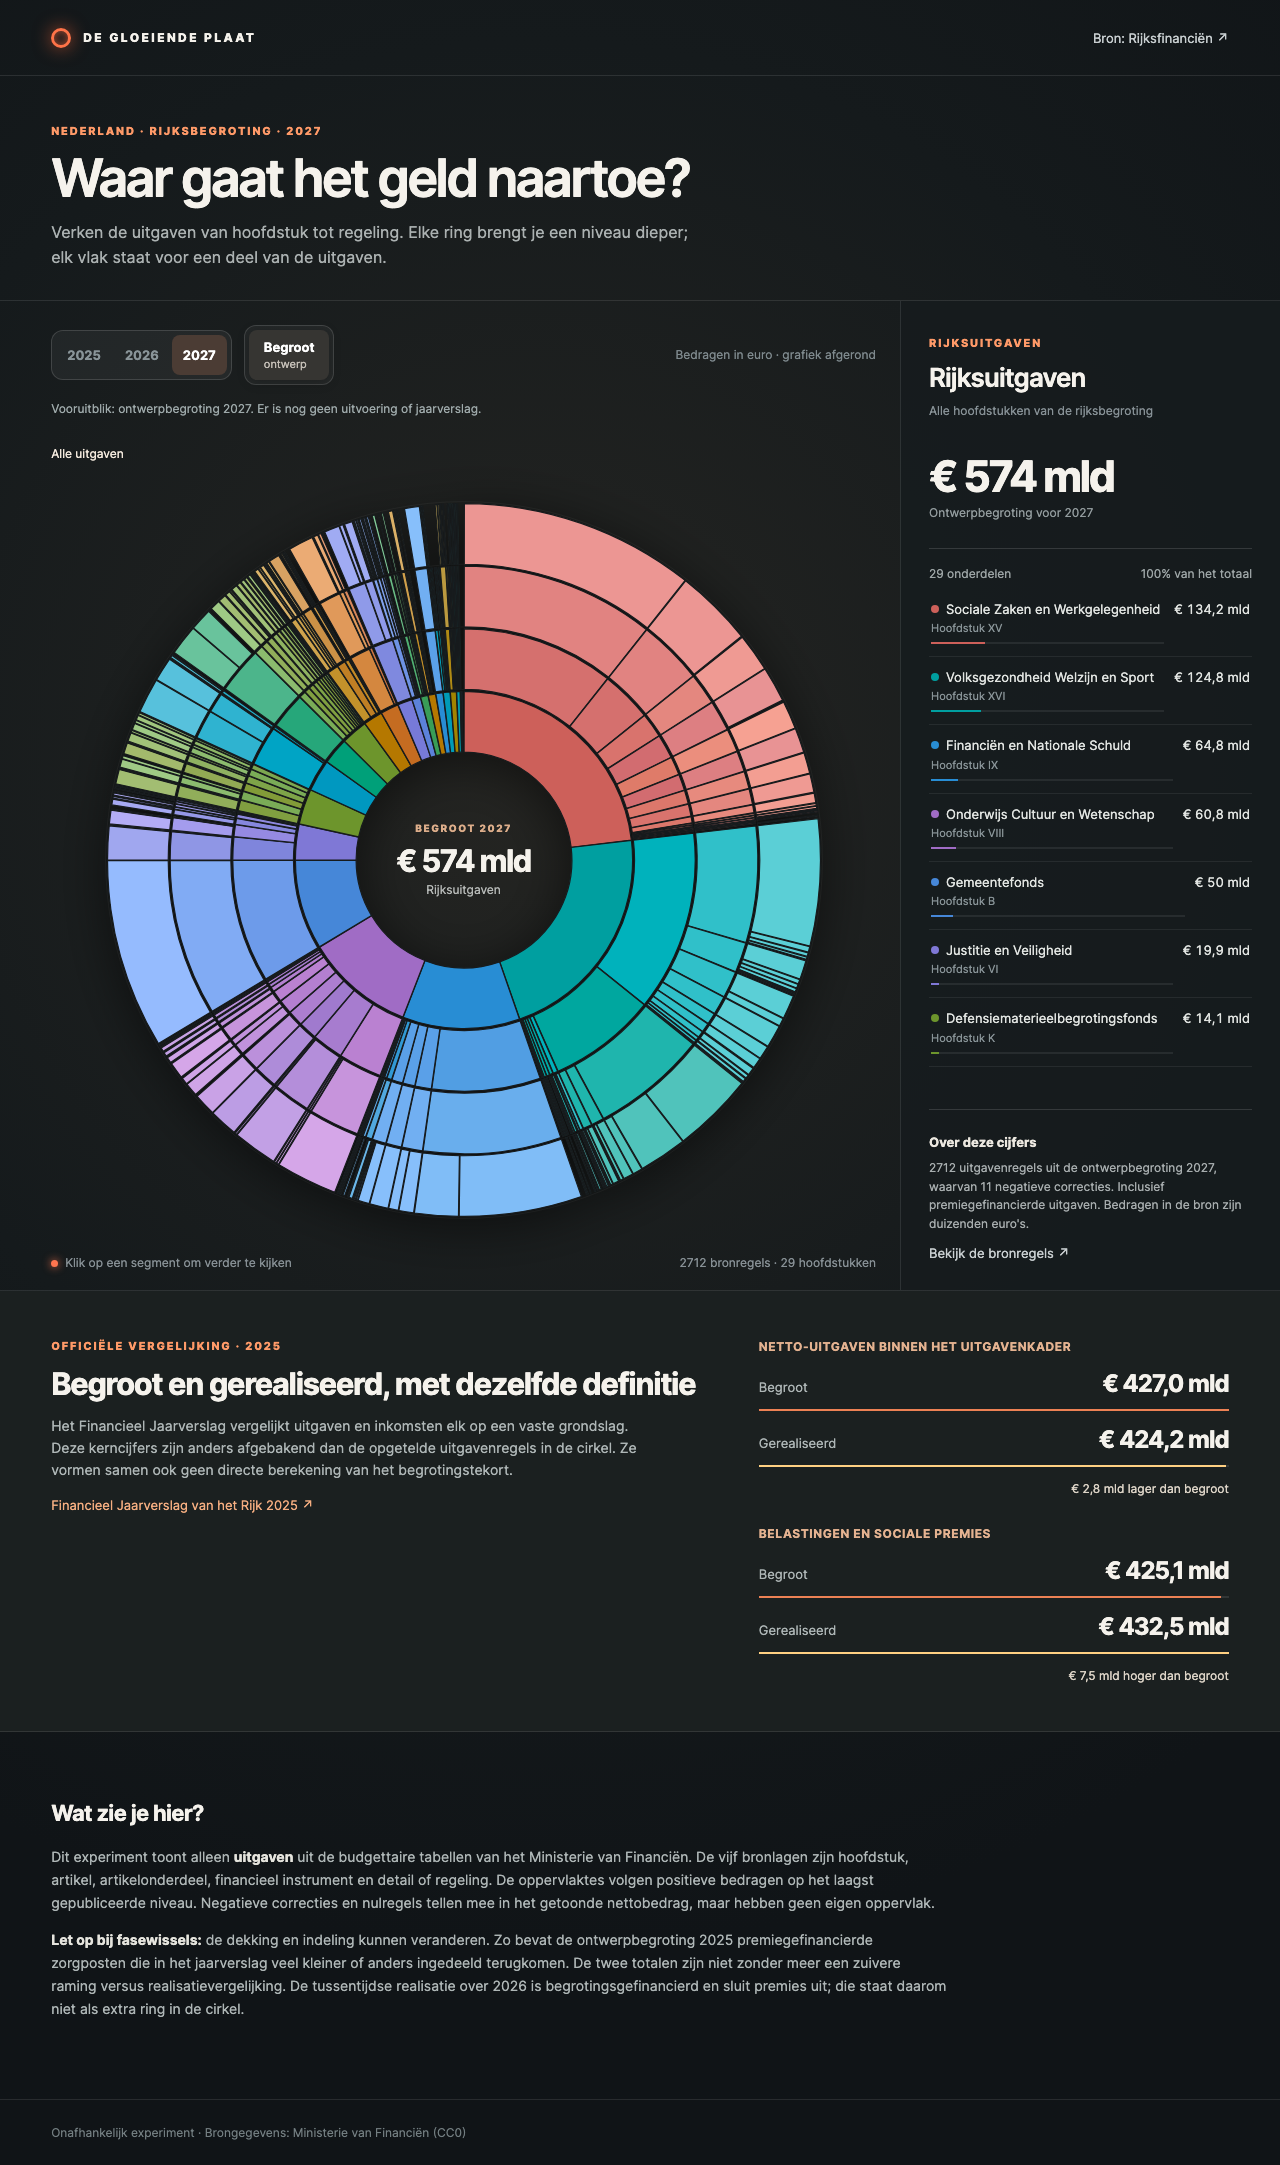
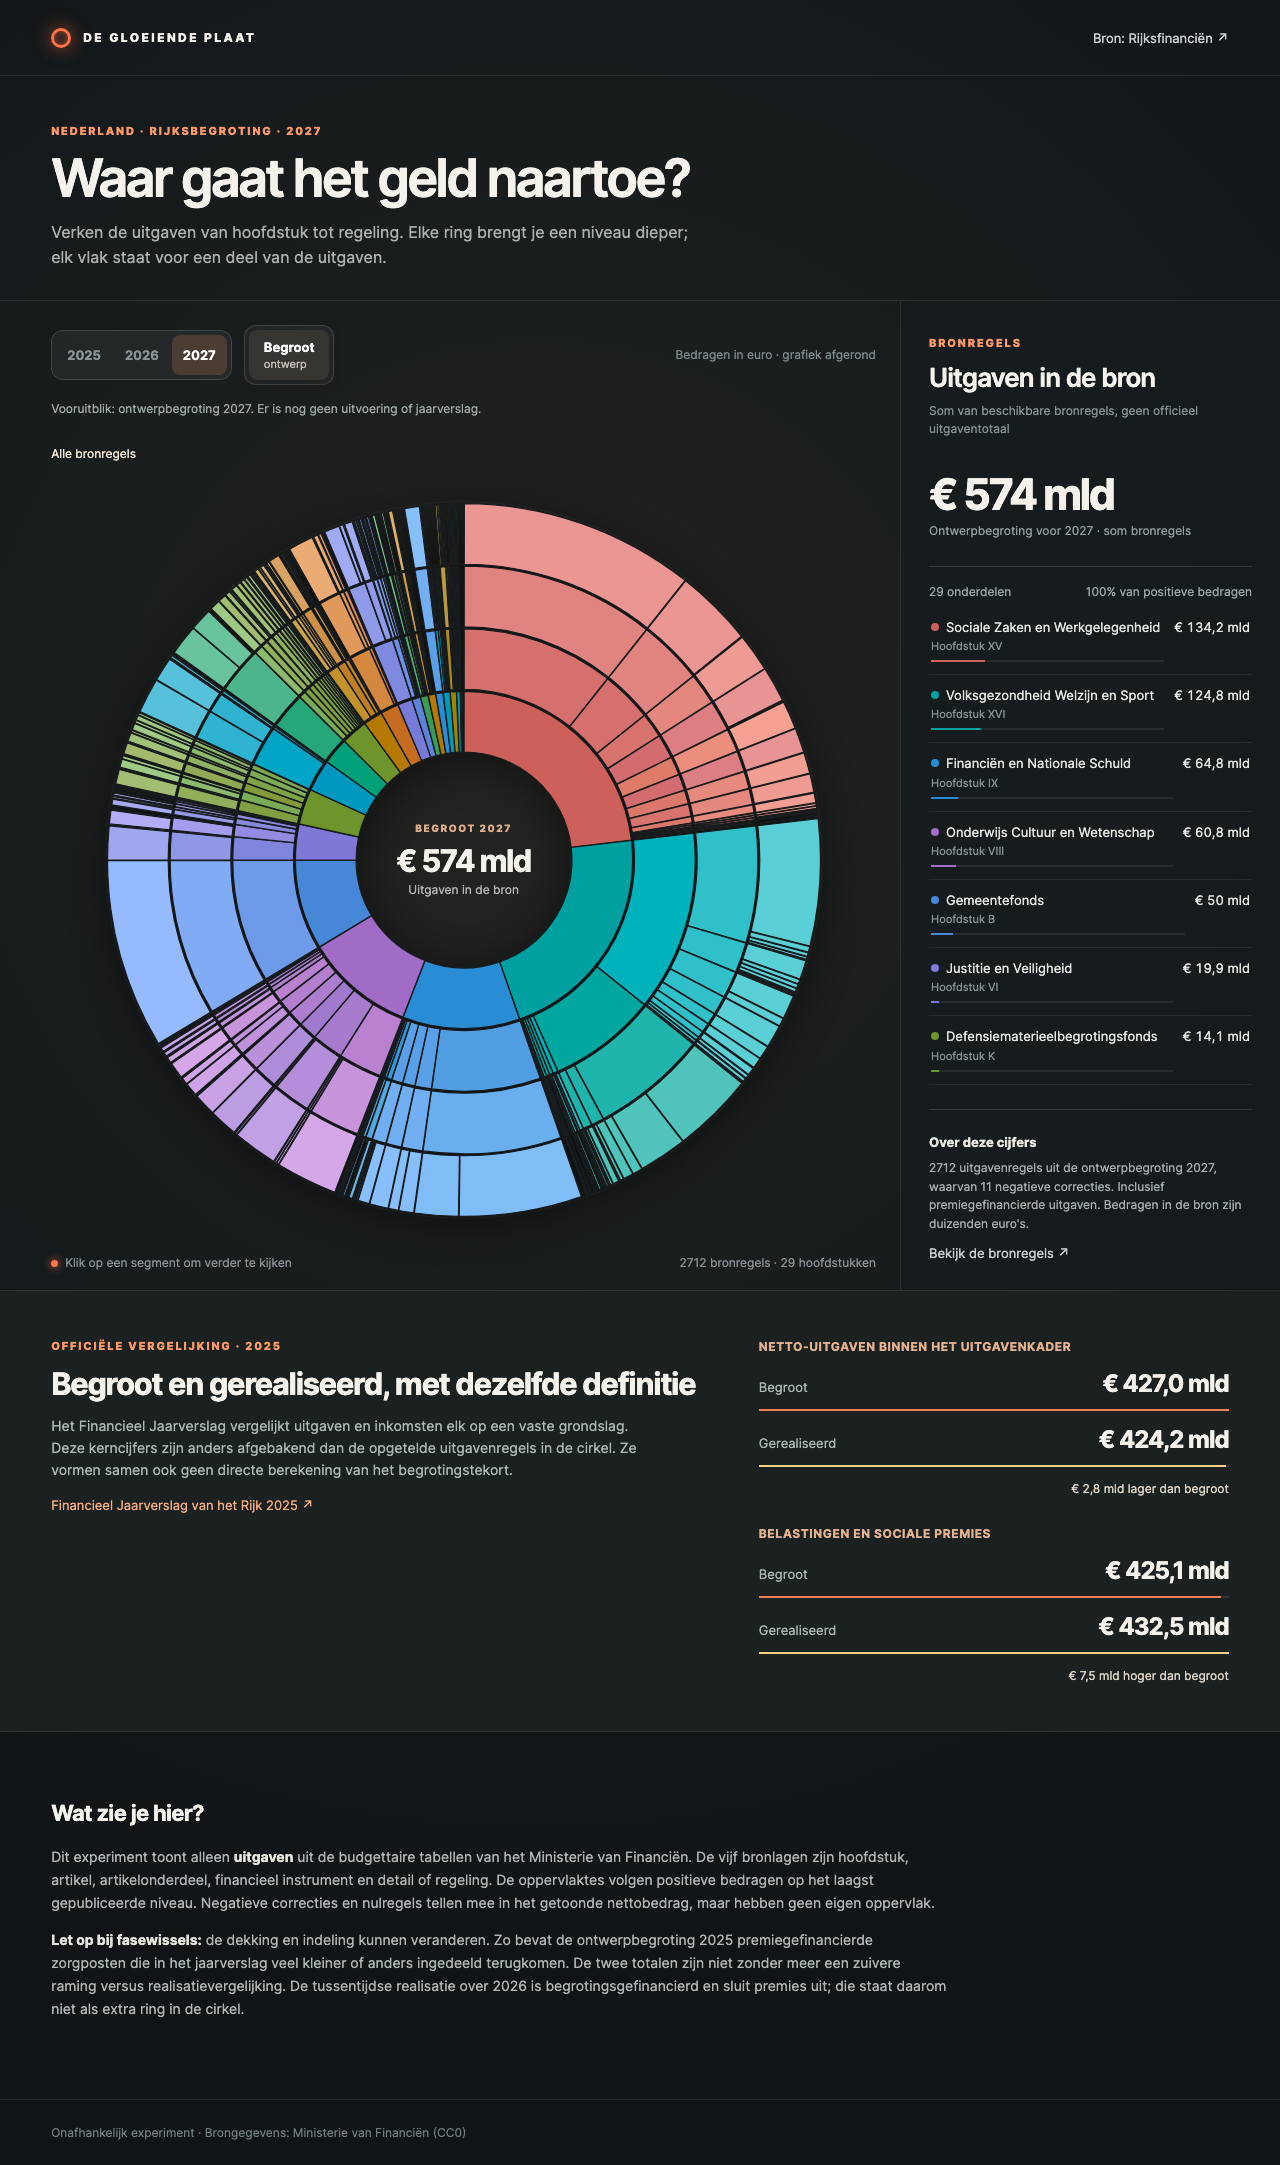
Keep budget context during navigation
Published sums can be mistaken for official totals, while area shares
use positive source amounts. Rebuilt controls also dropped keyboard
focus, interrupting navigation through the hierarchy.

Tests: tests/test_data.py
Slice: budget interface + source wording + keyboard navigation
Red-then-green: n/a (keyboard focus loss reproduced manually before fix)
Verified: agent-confirmed
Verified-how: Due to the interactive navigation, this was confirmed by exercising the chart, article list, center return and year switch with Chromium keyboard input.
Visual: Defensie share names positive amounts and keyboard focus remains visible -> preview.png

Changed region(s): [[0.7188, 0.1547, 0.9688, 0.4952]]

diff --git a/app.js b/app.js
@@ -1,4 +1,4 @@
-const LEVELS = ['Rijksuitgaven', 'Hoofdstuk', 'Artikel', 'Artikelonderdeel', 'Financieel instrument', 'Detail of regeling'];
+const LEVELS = ['Bronregels', 'Hoofdstuk', 'Artikel', 'Artikelonderdeel', 'Financieel instrument', 'Detail of regeling'];
 const CHAPTER_COLORS = {
   A: 76, B: 255, C: 245, F: 150, H: 215,
   I: 295, IIA: 280, IIB: 275, III: 260, IV: 225,
@@ -32,7 +32,7 @@ function node(name, code, depth, parent) {
 }
 
 function buildTree(records) {
-  const root = node('Rijksuitgaven', '', 0, null);
+  const root = node('Uitgaven in de bron', '', 0, null);
   for (const record of records) {
     let current = root;
     for (let depth = 1; depth <= 5; depth++) {
@@ -88,7 +88,7 @@ function showTooltip(event, current) {
   const value = document.createElement('span');
   value.textContent = formatAmount(current.net);
   const label = document.createElement('span');
-  label.textContent = `${LEVELS[current.depth]} · ${percent.format(current.area / focus.area || 0)} van deze weergave`;
+  label.textContent = `${LEVELS[current.depth]} · ${percent.format(current.area / focus.area || 0)} van de positieve bedragen in deze weergave`;
   tooltip.append(title, value, label);
   const bounds = wrap.getBoundingClientRect();
   tooltip.style.left = `${Math.min(event.clientX - bounds.left + 16, bounds.width - 260)}px`;
@@ -108,7 +108,7 @@ function addSector(current, start, end, ring) {
   element.setAttribute('tabindex', '0');
   element.setAttribute('aria-label', `${LEVELS[current.depth]} ${current.name}, ${formatAmount(current.net)}`);
   element.addEventListener('click', () => select(current));
-  element.addEventListener('keydown', event => { if (event.key === 'Enter' || event.key === ' ') { event.preventDefault(); select(current); } });
+  element.addEventListener('keydown', event => { if (event.key === 'Enter' || event.key === ' ') { event.preventDefault(); select(current, true); } });
   element.addEventListener('pointermove', event => showTooltip(event, current));
   element.addEventListener('pointerleave', () => { tooltip.hidden = true; });
   svg.append(element);
@@ -155,20 +155,21 @@ function renderBreadcrumbs() {
   ancestors.forEach((current, index) => {
     if (index) { const sep = document.createElement('span'); sep.className = 'sep'; sep.textContent = '/'; nav.append(sep); }
     const button = document.createElement('button');
-    button.type = 'button'; button.textContent = current.depth === 0 ? 'Alle uitgaven' : current.name;
-    button.addEventListener('click', () => select(current)); nav.append(button);
+    button.type = 'button'; button.textContent = current.depth === 0 ? 'Alle bronregels' : current.name;
+    button.addEventListener('click', event => select(current, event.detail === 0)); nav.append(button);
   });
 }
 
 function renderDetail() {
   setText('#depth-label', LEVELS[focus.depth].toUpperCase());
   setText('#selection-name', focus.name);
-  setText('#selection-context', focus.depth ? `${focus.code ? focus.code + ' · ' : ''}${focus.parent.name}` : 'Alle hoofdstukken van de rijksbegroting');
+  setText('#selection-context', focus.depth ? `${focus.code ? focus.code + ' · ' : ''}${focus.parent.name}` : 'Som van beschikbare bronregels, geen officieel uitgaventotaal');
   setText('#selection-value', formatAmount(focus.net));
-  setText('#measure-label', phase === 'JV' ? `Gerealiseerd in ${year}` : phase === 'SBS' ? `Septemberstand ${year}` : `Ontwerpbegroting voor ${year}`);
+  const measure = phase === 'JV' ? `Gerealiseerd in ${year}` : phase === 'SBS' ? `Septemberstand ${year}` : `Ontwerpbegroting voor ${year}`;
+  setText('#measure-label', focus.depth ? measure : `${measure} · som bronregels`);
   const children = childrenOf(focus);
   setText('#child-count', children.length ? `${children.length} onderdelen` : 'Laagste bronregel');
-  setText('#share-value', focus.depth ? `${percent.format(focus.area / roots[currentKey()].area)} van het totaal` : '100% van het totaal');
+  setText('#share-value', `${percent.format(focus.area / roots[currentKey()].area)} van positieve bedragen`);
   const list = document.querySelector('#children'); list.replaceChildren();
   for (const child of children) {
     const button = document.createElement('button'); button.type = 'button'; button.className = 'child-row';
@@ -181,7 +182,7 @@ function renderDetail() {
     const fill = document.createElement('span'); fill.style.width = `${focus.area ? Math.max(0, Math.min(100, child.area / focus.area * 100)) : 0}%`; fill.style.background = colorFor(child, 1); track.append(fill);
     title.append(name, sub, track);
     const amount = document.createElement('span'); amount.className = 'child-amount'; amount.textContent = formatAmount(child.net);
-    button.append(title, amount); button.addEventListener('click', () => select(child)); list.append(button);
+    button.append(title, amount); button.addEventListener('click', event => select(child, event.detail === 0)); list.append(button);
   }
   const meta = dataset.years[year][phase].metadata;
   setText('#phase-meta', `${meta.rows} bronregels · ${meta.chapters} hoofdstukken`);
@@ -191,10 +192,11 @@ function renderDetail() {
   document.querySelector('#phase-source').href = meta.url;
 }
 
-function select(current) {
+function select(current, restoreFocus = false) {
   focus = current;
   tooltip.hidden = true;
   renderBreadcrumbs(); renderChart(); renderDetail();
+  if (restoreFocus) document.querySelector('#selection-name').focus();
 }
 
 function setPhase(next) {
@@ -239,8 +241,8 @@ function setYear(next) {
 
 document.querySelectorAll('[data-phase]').forEach(button => button.addEventListener('click', () => setPhase(button.dataset.phase)));
 document.querySelectorAll('[data-year]').forEach(button => button.addEventListener('click', () => setYear(button.dataset.year)));
-document.querySelector('#chart-center').addEventListener('click', () => {
-  if (focus?.parent) select(focus.parent);
+document.querySelector('#chart-center').addEventListener('click', event => {
+  if (focus?.parent) select(focus.parent, event.detail === 0 && !focus.parent.parent);
 });
 fetch('data/budget.json').then(response => {
   if (!response.ok) throw new Error(`HTTP ${response.status}`);

diff --git a/style.css b/style.css
@@ -12,3 +12,4 @@ main{max-width:1600px;margin:auto}.intro{padding:48px clamp(22px,4vw,68px) 30px}
 @media(max-width:1000px){.workspace{grid-template-columns:1fr}.main-pane{padding-right:clamp(22px,4vw,68px)}.detail-pane{border-left:0;border-top:1px solid #ffffff1a}.children{max-height:330px}.chart-wrap{max-width:700px}}@media(max-width:700px){.reference{grid-template-columns:1fr;gap:24px}}@media(max-width:620px){.masthead{height:62px}.masthead a{font-size:11px}.brand{font-size:10px;letter-spacing:.12em}.intro{padding-top:35px}.workspace{min-height:0}.toolbar{align-items:flex-start;flex-direction:column}.unit{display:none}.chart-wrap{width:calc(100% + 30px);margin-left:-15px}.center-total{font-size:21px}.center-caption{font-size:10px}.chart-foot{font-size:11px}.detail-pane{padding:27px 22px}.big-number{font-size:36px}}
 @media(max-width:620px){.center-overline{font-size:8px;letter-spacing:.08em}}
 .child-swatch{display:inline-block;width:8px;height:8px;border-radius:50%;margin-right:7px;vertical-align:1px}
+.detail-heading h2:focus{outline:2px solid #f4e6d5;outline-offset:3px}

diff --git a/index.html b/index.html
@@ -45,7 +45,7 @@
         <div class="chart-foot"><span><i></i>Klik op een segment om verder te kijken</span><span id="phase-meta"></span></div>
       </div>
       <aside class="detail-pane" aria-label="Details van selectie">
-        <div class="detail-heading"><p class="eyebrow" id="depth-label">ALLE UITGAVEN</p><h2 id="selection-name">Rijksuitgaven</h2><p id="selection-context"></p></div>
+        <div class="detail-heading"><p class="eyebrow" id="depth-label">BRONREGELS</p><h2 id="selection-name" tabindex="-1" aria-live="polite">Uitgaven in de bron</h2><p id="selection-context"></p></div>
         <div class="big-number" id="selection-value">...</div>
         <div class="measure-label" id="measure-label">Septemberstand 2026</div>
         <div class="divider"></div>

diff --git a/README.md b/README.md
@@ -22,7 +22,7 @@ De snapshot in `data/budget.json` is op 24 oktober 2026 rechtstreeks opgehaald b
 | 2026 ontwerpbegroting | 2797 | 30 | € 555,614 miljard |
 | 2027 ontwerpbegroting | 2712 | 29 | € 573,976 miljard |
 
-Deze sommen tellen de laagste beschikbare uitgavenregels op; ze zijn geen geverifieerd totaal van alle overheidsuitgaven. De cirkel gebruikt positieve bronbedragen voor oppervlaktes. Negatieve correcties tellen wel mee in het getoonde nettobedrag; nulregels blijven navigeerbaar in de lijst. Een vlak kan daardoor iets groter lijken dan het nettobedrag suggereert.
+Deze sommen tellen de laagste beschikbare uitgavenregels op; ze zijn geen geverifieerd totaal van alle overheidsuitgaven. De cirkel gebruikt positieve bronbedragen voor oppervlaktes en percentages. Negatieve correcties tellen wel mee in het getoonde nettobedrag; nulregels blijven navigeerbaar in de lijst. Een vlak kan daardoor iets groter lijken dan het nettobedrag suggereert.
 
 Voor 2026 is ook een [voorlopige realisatie tot en met augustus](https://www.rijksfinancien.nl/uitgavenrealisaties) gepubliceerd: € 244,472 miljard aan begrotingsgefinancierde uitgaven. Deze stand wordt maandelijks bijgewerkt en sluit premiegefinancierde uitgaven uit. Daarom wordt hij niet in de cirkel opgeteld bij of vergeleken met de septemberbegroting inclusief premies. Voor 2027 is nog geen realisatie beschikbaar.
 
@@ -40,4 +40,4 @@ Start vanuit de repo-root:
 python3 -m http.server 8765 --bind 127.0.0.1
 ```
 
-Open `http://127.0.0.1:8765/`. De pagina heeft geen externe JavaScript- of CSS-afhankelijkheden. Ververs de snapshot met `python3 build_data.py`. Bij nieuwe begrotingsfasen of jaren moeten de bronbestanden en zichtbare keuzemogelijkheden worden toegevoegd en de dekking opnieuw worden gecontroleerd.
+Open `http://127.0.0.1:8765/`. De pagina heeft geen externe JavaScript- of CSS-afhankelijkheden. Ververs de datasnapshot met `python3 build_data.py`; de afzonderlijke 2025-kerncijfers, toelichting en beschikbare jaar- en faseknoppen in de HTML blijven daarbij handmatig beheerd. Bij nieuwe begrotingsfasen of jaren moeten de bronbestanden en zichtbare keuzemogelijkheden worden toegevoegd en de dekking opnieuw worden gecontroleerd.
